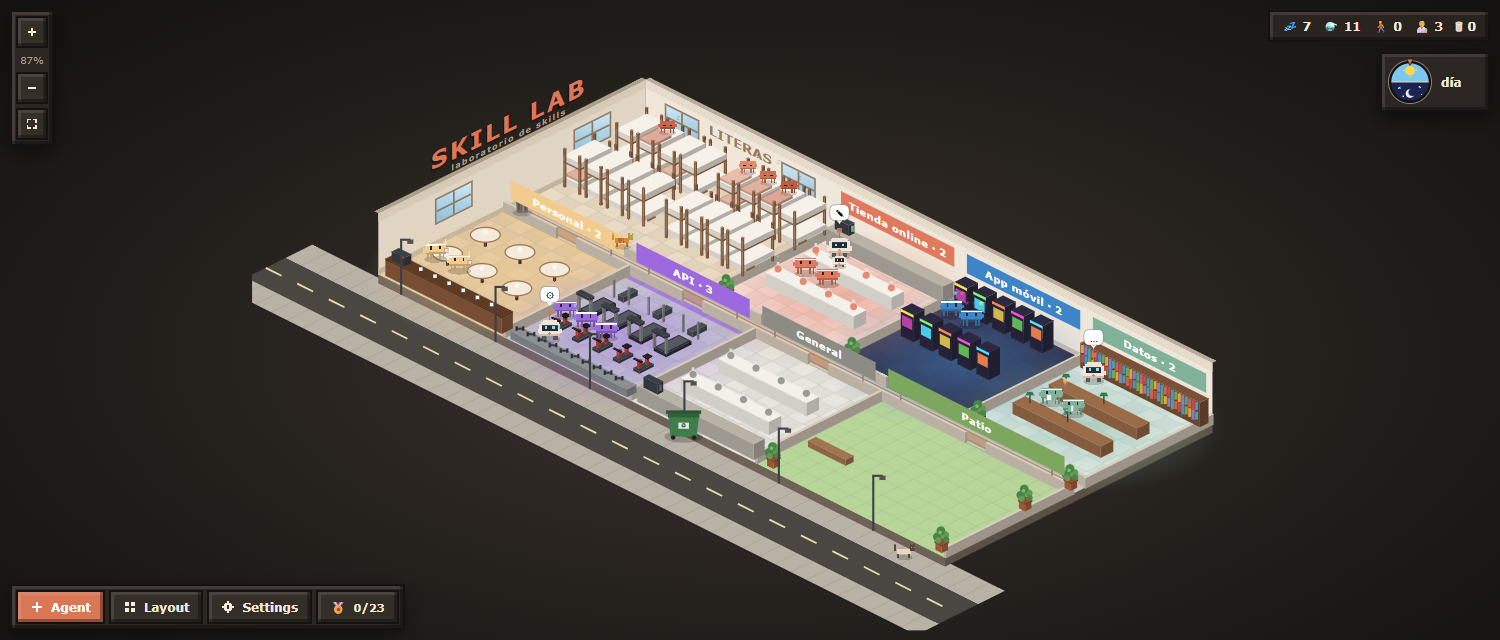
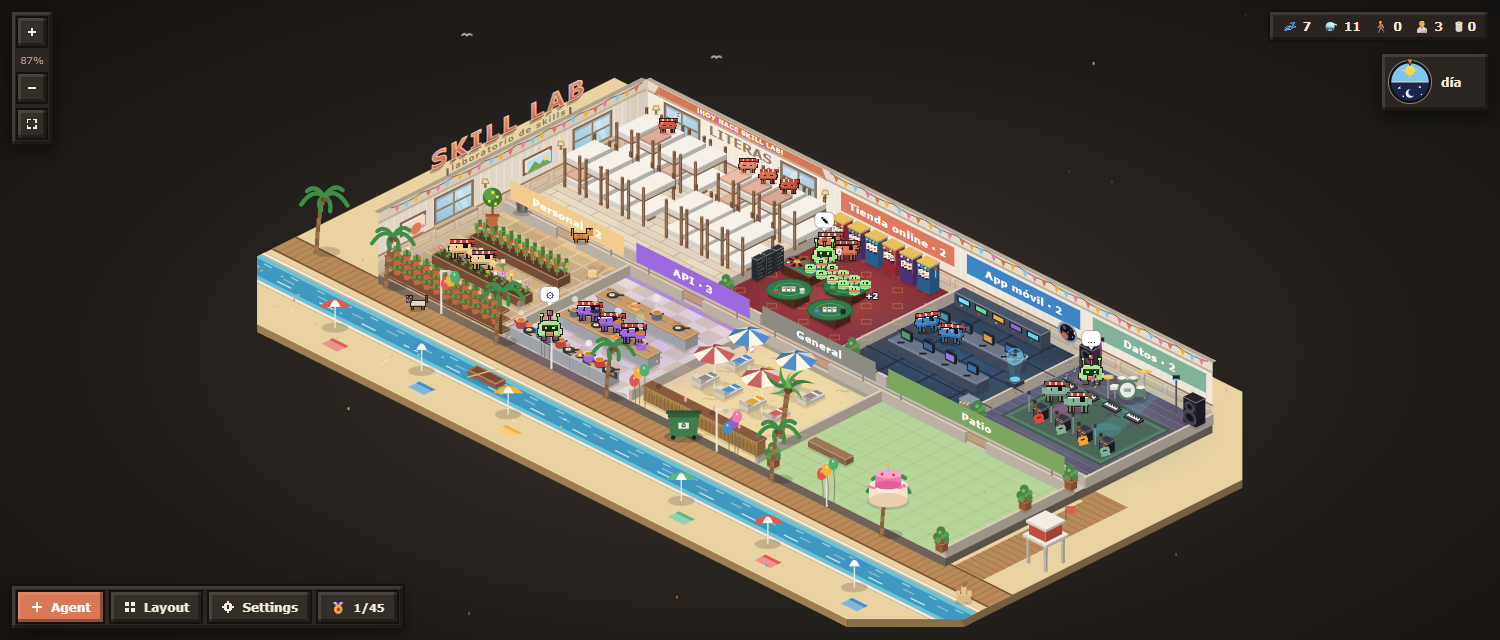
[Skill Lab] Release 1.0.0 with showcase screenshots and changelog

diff --git a/tools/labdemo.ts b/tools/labdemo.ts
@@ -1,21 +1,23 @@
 // build: npx esbuild tools/labdemo.ts --bundle --platform=node --outfile=tools/labdemo.js; run: node tools/labdemo.js <outDir>
 // renders Skill Lab with fictional puestos/skills and writes preview pages for README screenshots
 import * as fs from 'fs'
-import { applyConfig, LABS } from '../src/labs'
-import { renderScene, colorOf } from '../src/scene'
+import { applyConfig, LABS, PALETTES, WORLDS } from '../src/labs'
+import { renderScene, colorOf, SKINS } from '../src/scene'
+import { SEASONS, SEASON_NAMES, SEASON_WHEN } from '../src/season'
 
 const out = process.argv[2]!
 applyConfig({
   returnDelaySeconds: 20,
   labs: {
-    tienda: { name: 'Tienda online', theme: 'lab', row: 'top', width: 8 },
-    app: { name: 'App móvil', theme: 'arcade', row: 'top', width: 8 },
-    datos: { name: 'Datos', theme: 'library', row: 'top', width: 8 },
-    personal: { name: 'Personal', theme: 'cafe', row: 'bottom', width: 8 },
-    api: { name: 'API', theme: 'gym', row: 'bottom', width: 8 },
-    general: { name: 'General', theme: 'lab', row: 'bottom', width: 8 },
+    tienda: { name: 'Tienda online', theme: 'casino', row: 'top', width: 8, services: [{ name: 'Portal', url: 'https://a.example' }, { name: 'Back', url: 'https://b.example' }, { name: 'Web', url: 'https://c.example' }] },
+    app: { name: 'App móvil', theme: 'space', row: 'top', width: 8 },
+    datos: { name: 'Datos', theme: 'music', row: 'top', width: 8 },
+    personal: { name: 'Personal', theme: 'greenhouse', row: 'bottom', width: 8 },
+    api: { name: 'API', theme: 'kitchen', row: 'bottom', width: 8 },
+    general: { name: 'General', theme: 'beach', row: 'bottom', width: 8 },
   },
   order: ['tienda', 'app', 'datos', 'personal', 'api', 'general'],
+  world: 'beach',
 })
 const roster = ['code-review', 'commit-style', 'frontend-design', 'pdf', 'docx', 'xlsx', 'swagger', 'api-tests', 'deploy', 'migrations',
   'humanizer', 'prompt-master', 'release-notes', 'security-review', 'charts', 'i18n', 'onboarding', 'standup']
@@ -28,7 +30,7 @@ const crew: Record<string, any> = {
   migrations: at(null, 4), 'prompt-master': at(null, 1), 'security-review': at(null, 2), onboarding: at(null, 1),
 }
 const agents = [
-  { id: 's1', label: 'tienda-web', lab: 'tienda', activity: 'escribiendo', subagents: [{ id: 'a1', label: 'Explore' }] },
+  { id: 's1', label: 'tienda-web', lab: 'tienda', activity: 'escribiendo', subagents: Array.from({ length: 12 }, (_, k) => ({ id: 'a' + k, label: 'agente ' + k })) },
   { id: 's2', label: 'api', lab: 'api', activity: 'ejecutando', subagents: [] },
   { id: 's3', label: 'informes', lab: 'datos', activity: 'pensando', subagents: [] },
 ]
@@ -38,17 +40,26 @@ const head = fs.readFileSync(__dirname + '/body.html', 'utf8').replace('{{MEDIA}
 const oldModel = JSON.parse(fs.readFileSync(__dirname + '/settings.json', 'utf8'))
 const model = {
   ...oldModel,
-  labs: LABS.map(l => ({ id: l.id, name: l.name, accent: l.accent, match: '', width: l.width, row: l.row, theme: l.theme, custom: l.custom, removable: l.id !== 'general' })),
+  labs: LABS.map(l => ({ id: l.id, name: l.name, accent: l.accent, match: "", width: l.width, row: l.row, theme: l.theme, services: l.services, custom: l.custom, removable: l.id !== 'general' })),
   projectsRoot: 'C:/Proyectos',
   medals: {},
   needsSetup: false,
   skills: roster.map(name => ({ name, color: colorOf(name), fixed: null, hidden: false, uses: crew[name].uses, lab: crew[name].lab })),
-  settings: { ...oldModel.settings, cats },
+  services: { 'https://a.example': { up: true, code: 200, ms: 120 }, 'https://b.example': { up: false, code: 502 } },
+  world: 'beach',
+  worlds: WORLDS,
+  palette: 'multicolor',
+  palettes: PALETTES,
+  skins: SKINS,
+  seasons: SEASONS,
+  seasonNames: SEASON_NAMES,
+  seasonWhen: SEASON_WHEN,
+  settings: { ...oldModel.settings, cats, skillSkin: 'pirata', agentSkin: 'alien', season: 'auto' },
 }
 for (const night of [false, true]) {
-  const r = renderScene({ roster, crew, agents: agents as any, now, pet: true, cats: cats as any, night })
+  const r = renderScene({ roster, crew, agents: agents as any, now, pet: true, cats: cats as any, night, services: { 'https://a.example': { up: true, code: 200, ms: 120 }, 'https://b.example': { up: false, code: 502 } }, skillSkin: 'pirata', agentSkin: 'alien', season: 'auto' })
   const msg = { type: 'scene', svg: r.svg, geo: r.geo, clockMode: night ? 'night' : 'day', stats: { asleep: r.asleep, working: r.working, strolling: r.strolling, sessions: r.sessions } }
-  const extra = night ? '' : `setTimeout(()=>{if(location.hash==='#layout')document.querySelector('[data-act=layout][data-tab=labs]').click()},800);`
+  const extra = night ? '' : `setTimeout(()=>{const t=location.hash.slice(1);if(t)document.querySelector('[data-act=layout][data-tab=labs]').click();if(t&&t!=='layout')setTimeout(()=>document.querySelector('#drawer nav [data-tab='+t+']').click(),200)},800);`
   fs.writeFileSync(`${out}/${night ? 'night' : 'day'}.html`, `${head}
 <script>window.__model=${JSON.stringify(model)};window.__msgs=[];const reply=()=>setTimeout(()=>window.postMessage({type:"model",model:JSON.parse(JSON.stringify(window.__model))},"*"),0);window.acquireVsCodeApi=()=>({getState:()=>null,setState:()=>{},postMessage:m=>{window.__msgs.push(m);if(m.type==="model")reply()}})</script><script src="${media}main.js"></script><script>window.postMessage(${JSON.stringify(msg)},"*");${extra}</script></body></html>`)
 }

diff --git a/README.md b/README.md
@@ -1,25 +1,28 @@
 # Skill Lab
 
-**Un laboratorio isométrico en el panel de VS Code donde ves trabajar a Claude Code.** Cada skill es un muñeco que duerme en su litera y, cuando Claude la usa, va andando al puesto del proyecto en el que estás trabajando. Las sesiones de Claude aparecen como robots que te cuentan qué están haciendo.
+**Un laboratorio isométrico en el panel de VS Code donde ves trabajar a Claude Code.** Cada skill es un muñeco que duerme en su litera y, cuando Claude la usa, va andando al puesto del proyecto en el que estás trabajando. Las sesiones de Claude son robots que te cuentan qué están haciendo, y sus subagentes, drones que revolotean a su alrededor.
 
-![El laboratorio de día, con puestos de ejemplo](images/day.png)
+![El laboratorio en la playa, con puestos de ejemplo](images/day.png)
 
 ## Qué hace
 
-- **Una skill, un muñeco.** Cuando una sesión usa una skill, el muñeco sale de las literas, va al puesto de ese proyecto y, al terminar el turno, vuelve a dormir.
-- **Un puesto por proyecto.** Cada carpeta de proyecto puede tener su puesto, con su tema: laboratorio, gimnasio, cafetería, biblioteca, arcade, cuartel o zona de fumadores. Las sesiones abiertas en esa carpeta trabajan allí.
-- **Sesiones en directo.** Cada sesión de Claude Code es un robot con un bocadillo que indica si está pensando, escribiendo, leyendo, ejecutando, delegando o esperando tu respuesta. Los subagentes también salen.
-- **Avisos.** Suena un aviso cuando Claude termina un turno o se queda esperando un permiso.
-- **Día y noche.** La luz cambia según la hora real; si lo prefieres, puedes dejarlo siempre de día o siempre de noche.
-- **Detalles para curiosear.** Gatos con nombre, muñecos que se pueden arrastrar, una papelera y medallas escondidas para quien las encuentre.
+- **Una skill, un muñeco.** Cuando una sesión usa una skill, el muñeco sale de las literas, va al puesto de ese proyecto y toma su color; al terminar el turno vuelve a dormir.
+- **Un puesto por proyecto, con 13 temas.** Laboratorio, gimnasio, cafetería, biblioteca, arcade, cuartel, zona de fumadores, invernadero, estudio de música, estación espacial, cocina, chiringuito y casino. Cada uno con su mobiliario y su forma de trabajar: regar, tocar la batería, flotar en gravedad cero, cocinar, tomar el sol o apostar.
+- **Sesiones y subagentes en directo.** Cada sesión de Claude Code es un robot con un bocadillo (pensando, escribiendo, leyendo, ejecutando, esperando…). Los subagentes, también los lanzados en segundo plano, salen como drones junto a su robot.
+- **Servidores con piloto.** Cada puesto puede mostrar los servicios desplegados de su proyecto como armarios: luz verde si responden, roja si se han caído. Al pasar el ratón sale su nombre.
+- **Cinco mundos.** El edificio puede estar en la ciudad, en la playa, en el bosque, en la nieve o en la Luna.
+- **Temporadas.** Halloween, Navidad, Nochevieja, Reyes, Carnaval, San Valentín, San Fermín, las cuatro estaciones… se ponen solas según la fecha, o eliges una.
+- **Disfraces y colores.** Pirata, alien, astronauta, mago, vaquero, ninja, chef o vikingo, para los muñecos y para los robots. Seis paletas para los carteles: cálidos, pasteles, multicolor, fríos, neón y tierra.
+- **Día y noche, avisos y gatos.** La luz sigue la hora real, suena un aviso cuando Claude termina o espera permiso, y los gatos reaccionan a cada sala en la que los sueltes.
+- **45 medallas** escondidas para quien las encuentre.
 
 ![El mismo laboratorio de noche](images/night.png)
 
 ## Instalación
 
-1. Descarga `skill-lab-0.9.1.vsix` de la última [release](https://github.com/AlvaroMDX/skill-lab/releases/latest).
+1. Descarga `skill-lab-1.0.0.vsix` de la última [release](https://github.com/AlvaroMDX/skill-lab/releases/latest).
 2. En VS Code: **Extensiones → ··· → Install from VSIX…** y elige el fichero.
-   También desde un terminal: `code --install-extension skill-lab-0.9.1.vsix`.
+   También desde un terminal: `code --install-extension skill-lab-1.0.0.vsix`.
 3. Recarga la ventana (**Developer: Reload Window**).
 
 Para compilarla desde el código:
@@ -39,24 +42,21 @@ npx @vscode/vsce@3.2.1 package
    - **Rueda** o **+ / −**: zoom. **Arrastrar el fondo**: desplazar el mapa.
    - **Clic en un muñeco**: ver su nombre. **Doble clic**: abrir su ficha.
    - **+ Agent**: lanzar una sesión nueva de Claude Code en una carpeta.
-   - **Layout**: crear, quitar o reordenar puestos, cambiar el tema, el ancho y la fila, y fijar skills a un puesto concreto.
+   - **Layout**: puestos (tema, fila, ancho, carpeta y servicios), paleta de colores, skills fijas, medallas y ajustes.
 
-![El cajón Layout para organizar puestos y skills](images/layout.png)
+![Ajustes: mundo, temporada y disfraces](images/settings.png)
 
 ## Configuración
 
-Casi todo se ajusta desde el propio panel, en **Layout** y **Settings**. Además, en los ajustes de VS Code (`skillLab.*`) puedes cambiar:
+Casi todo se ajusta desde el propio panel:
 
-| Ajuste | Para qué sirve |
-| --- | --- |
-| `skillLab.sound` | Activar o quitar el aviso sonoro de fin de turno y de permisos. |
-| `skillLab.watchAllSessions` | Ver las sesiones de cualquier carpeta o solo las del workspace abierto. |
-| `skillLab.showPet` / `skillLab.cats` | Mostrar los gatos, con su nombre y su pelaje. |
-| `skillLab.clockMode` | Ciclo de día y noche automático, siempre de día o siempre de noche. |
-| `skillLab.claudeCommand` | Ejecutable de Claude Code para **+ Agent** (vacío: el de la extensión de Claude Code). |
-| `skillLab.skipPermissions` | Lanzar los agentes sin pedir permisos. Úsalo solo si aceptas el riesgo. |
+- **Layout → Labs**: paleta de colores para todos los puestos y, en cada puesto, su tema, fila, ancho, carpeta y **Servicios** (una línea por servicio, `Nombre = https://url`). Los servicios se comprueban cada minuto; cuentan como caídos si no responden en 8 s o devuelven un error 5xx.
+- **Layout → Skills**: cada skill puede ir siempre al mismo puesto o seguir al repositorio de la sesión que la usa.
+- **Layout → Ajustes**: mundo, temporada, disfraces, día y noche, sonidos y gatos.
 
-La distribución de puestos se guarda en `~/.claude/skill-lab/config.json`.
+En los ajustes de VS Code (`skillLab.*`) quedan además el ejecutable de Claude Code para **+ Agent** y la opción de lanzarlo sin pedir permisos. La distribución de puestos se guarda en `~/.claude/skill-lab/config.json`.
+
+![Layout: paletas de colores y puestos](images/layout.png)
 
 ## Requisitos
 
@@ -65,7 +65,7 @@ La distribución de puestos se guarda en `~/.claude/skill-lab/config.json`.
 
 ## Privacidad
 
-Skill Lab lee las transcripciones locales de Claude Code (`~/.claude/projects`) para saber qué skills se usan y qué hace cada sesión. Todo se procesa en tu equipo: no envía nada a ningún servidor.
+Skill Lab lee las transcripciones locales de Claude Code (`~/.claude/projects`) para saber qué skills se usan y qué hace cada sesión, y lo procesa todo en tu equipo. Solo hace peticiones de red a las direcciones que tú pongas como servicios de un puesto, para saber si responden.
 
 ## Comandos
 
@@ -77,4 +77,4 @@ Skill Lab lee las transcripciones locales de Claude Code (`~/.claude/projects`) 
 
 ---
 
-Autor: **Alvaro Martos Diez** · Las capturas usan puestos y skills de ejemplo.
+Autor: **Alvaro Martos Diez** · Las capturas usan puestos, skills y servicios de ejemplo.

diff --git a/CHANGELOG.md b/CHANGELOG.md
@@ -1,5 +1,16 @@
 # Cambios
 
+## 1.0.0 — 2026-10-22
+- Seis temas nuevos de puesto: invernadero, estudio de música, estación espacial, cocina, chiringuito y casino.
+- Cinco mundos alrededor del edificio: ciudad, playa, bosque, nieve y Luna.
+- Temporadas automáticas por fecha (Halloween, Navidad, Nochevieja, Reyes, Carnaval, San Valentín, San Fermín, estaciones, cumpleaños de Skill Lab) o elegidas a mano, con modo fiesta.
+- Disfraces para los muñecos y los robots, y seis paletas de colores para los puestos.
+- Servidores en cada puesto con piloto verde o rojo según respondan sus servicios.
+- Los subagentes, también los de segundo plano, salen como drones junto a su robot (hasta 10 y un contador).
+- Gráficos renovados: suelos con textura por tema, paredes con arrimadero y apliques, ventanas con reflejo, contorno en los personajes y bandera del cuartel arreglada.
+- 45 medallas y reacciones de gato para cada sala nueva; la Operación Bigotes se grita en bocadillos.
+- Arreglos: el gato ya no se teletransporta al salir de la papelera, el coche de la calle circula por la calzada, las sesiones que mueren a medias liberan sus skills y la lectura de transcripciones es más robusta.
+
 ## 0.9.1 — 2026-10-22
 - Al cambiar el reparto de skills (Layout o config.json), los muñecos que ya estaban trabajando se mueven a su puesto nuevo en vez de quedarse en el antiguo hasta el siguiente uso.
 
